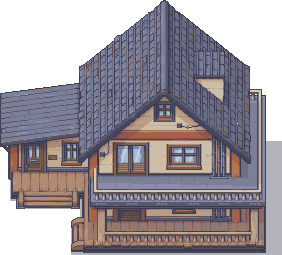
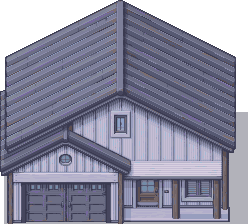
Reyes Ranch and Dry Creek clubhouse get front-door buildings; road trimming keeps path ends
Claude-Session: https://claude.ai/code/session_01UCvMP3hAQ7S5xitSmMnWDY

diff --git a/tools/import_packs.py b/tools/import_packs.py
@@ -460,7 +460,7 @@ if os.path.isdir(ME):
         "d_house_green": A % "Post_Apocalyptic_House_2", "d_house_yellow": A % "Post_Apocalyptic_House_2", "d_ruin": A % "Post_Apocalyptic_House_2",
         "store": S % ("Shopping_Center_and_Markets", "Mall_1"), "tavern": A % "Victorian_House_5", "tavern_open": A % "Victorian_House_5",
         "forge": "23_MIlitary_Base_16x16_Dormitory_1.png",
-        "ranch": A % "Country_House", "clinic": "22_Post_Office_16x16_Building_2.png", "workshop": S % ("Generic_Building", "Hardware_Store"),
+        "ranch": A % "One_Story_House", "clinic": "22_Post_Office_16x16_Building_2.png", "workshop": S % ("Generic_Building", "Hardware_Store"),
         "guild": "23_MIlitary_Base_16x16_Dormitory_2.png", "townhall": S % ("Generic_Building", "Condo_6"),
         "archive": "23_MIlitary_Base_16x16_Dormitory_4.png", "archive_open": "23_MIlitary_Base_16x16_Dormitory_4.png",
         "baitshack": S % ("Camping", "Mobile_House_Small_1"),
@@ -479,18 +479,18 @@ if os.path.isdir(ME):
         "d_bait": S % ("Camping", "Mobile_House_Small_2"), "d_boathouse": S % ("Camping", "Mobile_House_Big_1"),
         "d_ranger": S % ("Camping", "Mobile_House_Big_5"), "d_cabin": S % ("Camping", "Mobile_House_Medium_5"),
         "d_lab": S % ("Hotel_and_Hospital", "Hospital_1"), "d_lab6": "23_MIlitary_Base_16x16_Bunker.png",
-        "d_booth": S % ("Police_Station", "Parking_Booth_2"), "d_clubhouse": A % "Country_House_No_Banisters",
+        "d_booth": S % ("Police_Station", "Parking_Booth_2"), "d_clubhouse": S % ("Camping", "Mobile_House_Big_3"),
     }
     # where each picture's door (or the foot of its steps) is, in pixels from the left; default the middle
     DOOR = {"archive": 32, "archive_open": 32, "d_bar": 32, "forge": 32, "guild": 33, "baitshack": 40, "d_bait": 40,
-            "d_boathouse": 40, "d_booth": 24, "d_cabin": 42, "d_clubhouse": 48, "ranch": 48, "d_farmhouse": 145, "d_firehouse": 46,
+            "d_boathouse": 40, "d_booth": 24, "d_cabin": 42, "d_clubhouse": 42, "ranch": 145, "d_farmhouse": 145, "d_firehouse": 46,
             "d_guns": 24, "d_hotdog": 24, "d_pawn": 24, "d_pharmacy": 24, "d_hardware": 40, "workshop": 40,
             "d_house_blue": 124, "d_house_red": 124, "farmhouse": 124, "d_house_green": 123, "d_house_yellow": 123, "d_ruin": 123, "ruin": 123,
             "d_lab": 65, "d_lab6": 67, "d_lumber_office": 40, "d_mill": 77, "d_warehouse": 77, "d_ranger": 42, "house_a": 42, "house_b": 42,
             "d_scrap_office": 35, "d_shed": 68, "store": 138, "tavern": 45, "tavern_open": 45, "townhall": 55}
     # pictures whose steps end above the picture's bottom edge: the ground line at the door, in pixels from the top.
     # Whatever is drawn below it (a porch) hangs in front and is solid.
-    BASE = {"ranch": 208, "d_clubhouse": 208}
+    BASE = {}     # (Reyes Ranch and the Dry Creek clubhouse used porch pictures; both now have front doors)
     meta = {}
     for kind, f in BUILDINGS.items():
         p = os.path.join(ME, f)

diff --git a/PROJECT_STATE.md b/PROJECT_STATE.md
@@ -358,7 +358,7 @@ Daniel asked for more colour and life, balanced against the run-down look.
 - Trees from Pixel Crawler, four kinds picked by the object's `v`: full oak (`tree`), smaller oak (`tree2`), slim tree that turns red in autumn (`tree3`), the old PostApocalypse tree (`tree4`). Pines: green, teal (`pine2`), short (`pine3`). All seasonal, snowy in winter.
 - Colour grade: districts and other cold places keep a cooler, greyer look but less washed out (`MOODS` in `world_view.gd`).
 - Roads: Modern Exteriors cracked asphalt with a concrete curb where they meet pavement or grass. Dirt: Pixel Crawler dirt, toned down, with a ragged grass lip where it meets grass (`_ground_edges`, `tiles/road_edge_<side>`, `tiles/dirt_edge_<season>_<side>`).
-- Narrower roads on the scaled maps: wide runs lose their outer tile row on each side (a 6-tile road is now 4, a 4-tile dirt track 2). `MapScale.VERSION` 3.
+- Narrower roads on the scaled maps: wide strips lose their outer tile row along each long side (a 6-tile road is now 4, a 4-tile dirt track 2). Ends are never trimmed, so paths still meet doors (`MapScale._run`). `MapScale.VERSION` 5.
 - Car and bus wrecks are Modern Exteriors vehicles at people scale, faded, rusted and some burned. Cars take 4x2 tiles, buses 7x3 (nudged away from buildings, or kept small if there's no room).
 - Tilled soil: a Sunnyside World mound on dark dirt (`tiles/soil_dry.png`, `tiles/soil_wet.png`, used by `Art.get_soil`). Sand is paler and gets the grass lip too. The one-tile tooth at road crossings is removed after trimming.
 - `tests/screenshots.gd --only=scenes` takes daytime views of the farm, town, Residential and Riverlands plus a wreck next to the player, for colour checks.
@@ -378,6 +378,10 @@ Daniel wants to revisit these later. `art/animals/<type>_<0|1>.png` are strips o
 ### Farm equipment (added Nov 16)
 
 Pixel Crawler farm props: scarecrow (and a grey tin one), water and feed troughs and the hay hopper (the long trough cut to one tile), worm bin and nest box (the small planter box), shipping crate. Sprinklers (bucket, pressure, drip array) are small pixel pictures drawn in the importer (`SPR`). The crab pot uses its icon. Still code-drawn: trellis, cold frame, raised bed, hay silo, well, fruit trees.
+
+### Reyes Ranch fix (Nov 16)
+
+Daniel could walk through the ranch's wall and never reach its door up the porch steps. Reyes Ranch is now the Modern Exteriors One Story House (front door at ground level, door column 145) and the Dry Creek clubhouse a big mobile home (door 42). Nothing uses the porch `BASE` setup any more. `tests/screenshots.gd --only=ranch` shows the ranch door.
 
 ### Packs looked at and not used (Nov 16)
 
